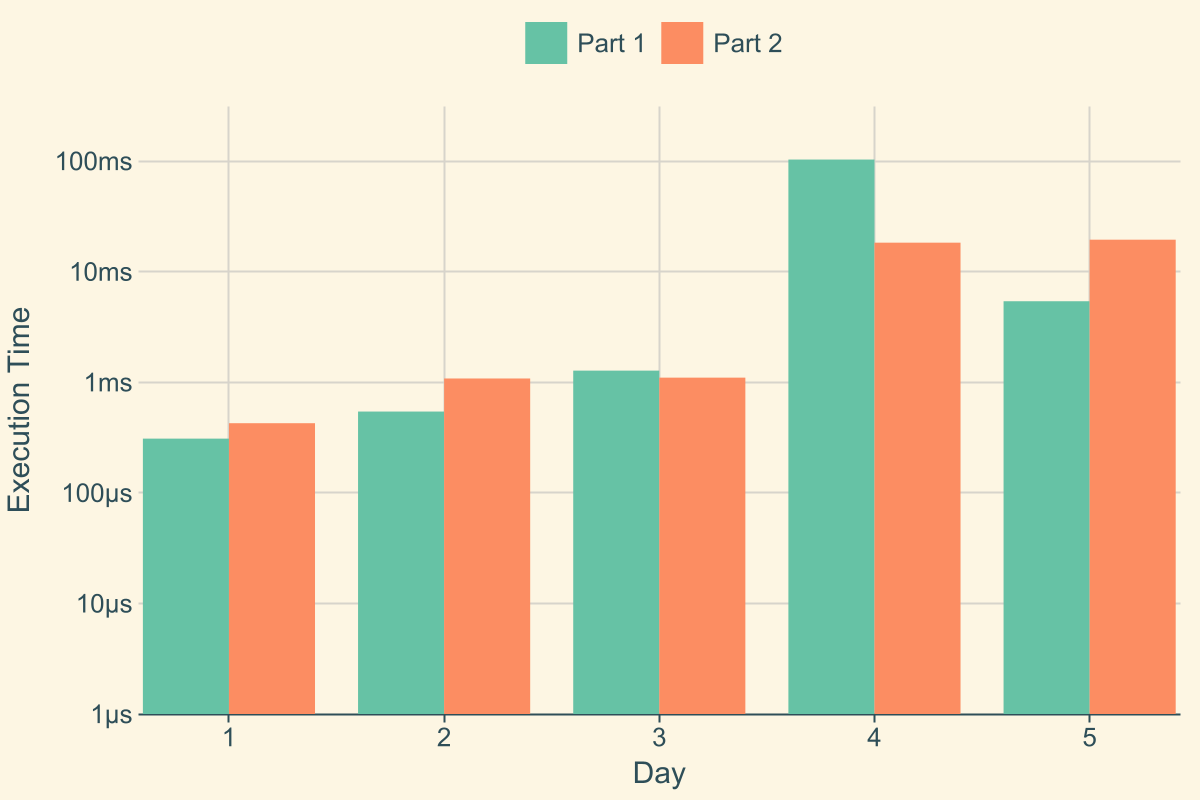
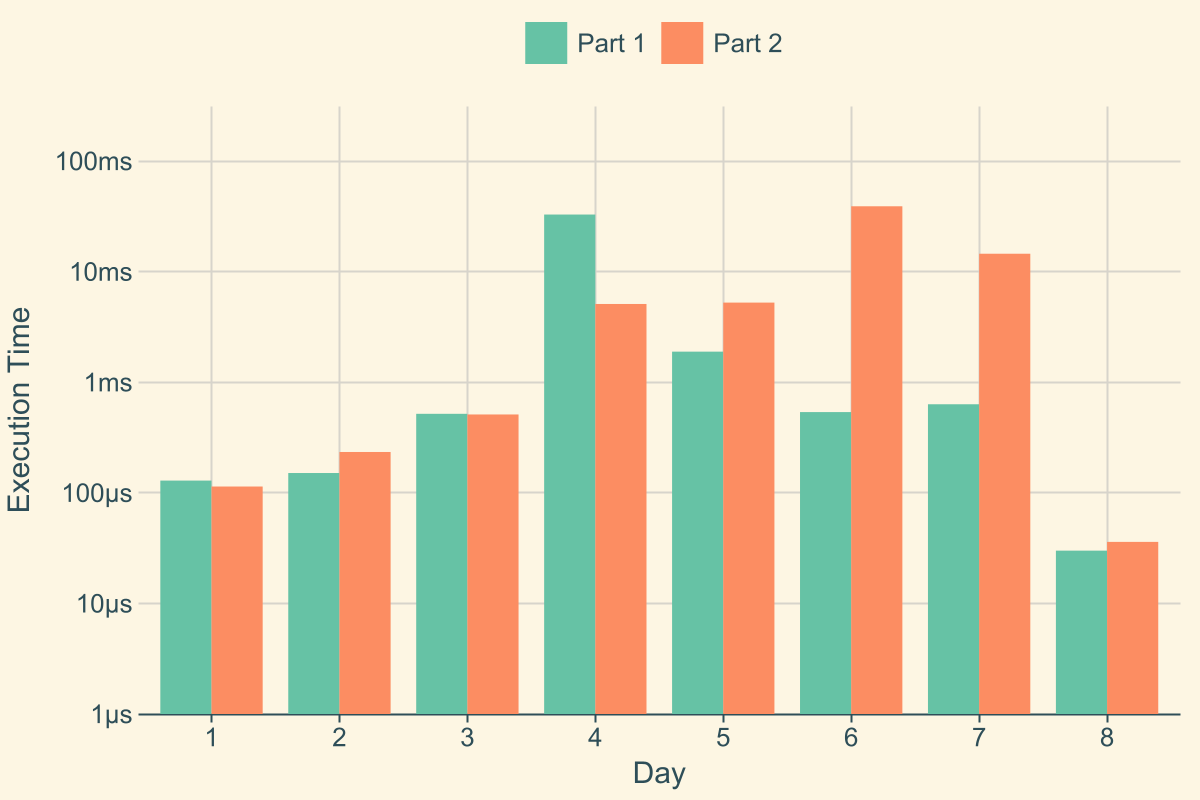
day08

diff --git a/src/day08.rs b/src/day08.rs
@@ -1,0 +1,154 @@
+use crate::harness::Day;
+use crate::harness::Part;
+use std::collections::HashMap;
+use std::ops::Sub;
+use std::ops::{Add, Mul, Neg};
+pub struct Part1;
+
+pub fn day08() -> Day<i32, i32> {
+    Day::new(8, Box::new(Part1 {}), Box::new(Part2 {}))
+}
+
+impl Part<i32> for Part1 {
+    fn expect_test(&self) -> i32 {
+        14
+    }
+
+    fn solve(&self, input: &[String]) -> i32 {
+        let input = Input::from(input);
+
+        solve(input, 1, 2)
+    }
+}
+
+pub struct Part2;
+
+impl Part<i32> for Part2 {
+    fn expect_test(&self) -> i32 {
+        34
+    }
+
+    fn solve(&self, input: &[String]) -> i32 {
+        let input = Input::from(input);
+
+        solve(input, 0, i32::MAX)
+    }
+}
+
+fn solve(input: Input, min: i32, max: i32) -> i32 {
+    let mut result = vec![vec![false; input.width]; input.height];
+
+    for vec in input.map.values() {
+        for &a in vec {
+            for &b in vec {
+                if a == b {
+                    continue;
+                };
+
+                let diff = b - a;
+
+                for i in min..max {
+                    let pos = b + diff * i;
+
+                    if input.in_bounds(pos) {
+                        result[pos.y as usize][pos.x as usize] = true
+                    } else {
+                        break;
+                    }
+                }
+            }
+        }
+    }
+
+    result
+        .into_iter()
+        .map(|e| e.into_iter().filter(|&e2| e2).count() as i32)
+        .sum()
+}
+
+#[derive(Debug)]
+struct Input {
+    map: HashMap<char, Vec<Vec2>>,
+    width: usize,
+    height: usize,
+}
+
+impl From<&[String]> for Input {
+    fn from(value: &[String]) -> Self {
+        let value = value.iter().filter(|e| !e.is_empty()).collect::<Vec<_>>();
+        let map = value
+            .iter()
+            .enumerate()
+            .flat_map(|(y, line)| {
+                line.chars()
+                    .enumerate()
+                    .filter(|&(_, c)| c != '.')
+                    .map(move |(x, c)| (c, v(x as i32, y as i32)))
+            })
+            .fold(HashMap::new(), |mut acc, (c, vec2)| {
+                let vec = acc.entry(c).or_insert(Vec::new());
+                vec.push(vec2);
+                acc
+            });
+
+        Self {
+            map,
+            width: value[0].len(),
+            height: value.len(),
+        }
+    }
+}
+
+impl Input {
+    fn in_bounds(&self, vec2: Vec2) -> bool {
+        vec2.x >= 0 && vec2.x < (self.width as i32) && vec2.y >= 0 && vec2.y < (self.height as i32)
+    }
+}
+
+const fn v(x: i32, y: i32) -> Vec2 {
+    Vec2::new(x, y)
+}
+
+#[derive(Debug, Copy, Clone, Hash, Eq, PartialEq)]
+struct Vec2 {
+    x: i32,
+    y: i32,
+}
+
+impl Vec2 {
+    pub const fn new(x: i32, y: i32) -> Self {
+        Self { x, y }
+    }
+}
+
+impl Add<Vec2> for Vec2 {
+    type Output = Self;
+
+    fn add(self, rhs: Vec2) -> Self::Output {
+        v(self.x + rhs.x, self.y + rhs.y)
+    }
+}
+
+impl Sub<Vec2> for Vec2 {
+    type Output = Self;
+
+    fn sub(self, rhs: Vec2) -> Self::Output {
+        v(self.x - rhs.x, self.y - rhs.y)
+    }
+}
+
+impl Neg for Vec2 {
+    type Output = Self;
+
+    fn neg(self) -> Self::Output {
+        v(-self.x, -self.y)
+    }
+}
+
+impl Mul<i32> for Vec2 {
+    type Output = Self;
+
+    fn mul(self, rhs: i32) -> Self::Output {
+        v(self.x * rhs, self.y * rhs)
+    }
+}

diff --git a/src/main.rs b/src/main.rs
@@ -12,7 +12,7 @@ use crate::day04::day04;
 use crate::day05::day05;
 use crate::day06::day06;
 use crate::day07::day07;
-// use crate::day08::day08;
+use crate::day08::day08;
 // use crate::day09::day09;
 // use crate::day10::day10;
 // use crate::day11::day11;
@@ -38,7 +38,7 @@ mod day04;
 mod day05;
 mod day06;
 mod day07;
-// mod day08;
+mod day08;
 // mod day09;
 // mod day10;
 // mod day11;
@@ -67,6 +67,7 @@ fn main() {
         day05().f(),
         day06().f(),
         day07().f(),
+        day08().f(),
     ];
 
     let run_one = |id: usize| (days[id - 1].f)();
@@ -111,7 +112,7 @@ fn plot(part1: Vec<Duration>, part2: Vec<Duration>) -> Result<(), Error> {
     };
 
     // Lol just plot with kotlin who's gonna stop me???
-    Command::new("java")
+    Command::new("C:\\Users\\Marvin\\.gradle\\jdks\\eclipse_adoptium-18-amd64-windows\\jdk-18.0.2.1+1\\bin\\java.exe")
         .arg("-jar")
         .arg("plotter.jar")
         .arg(&convert(part1))
